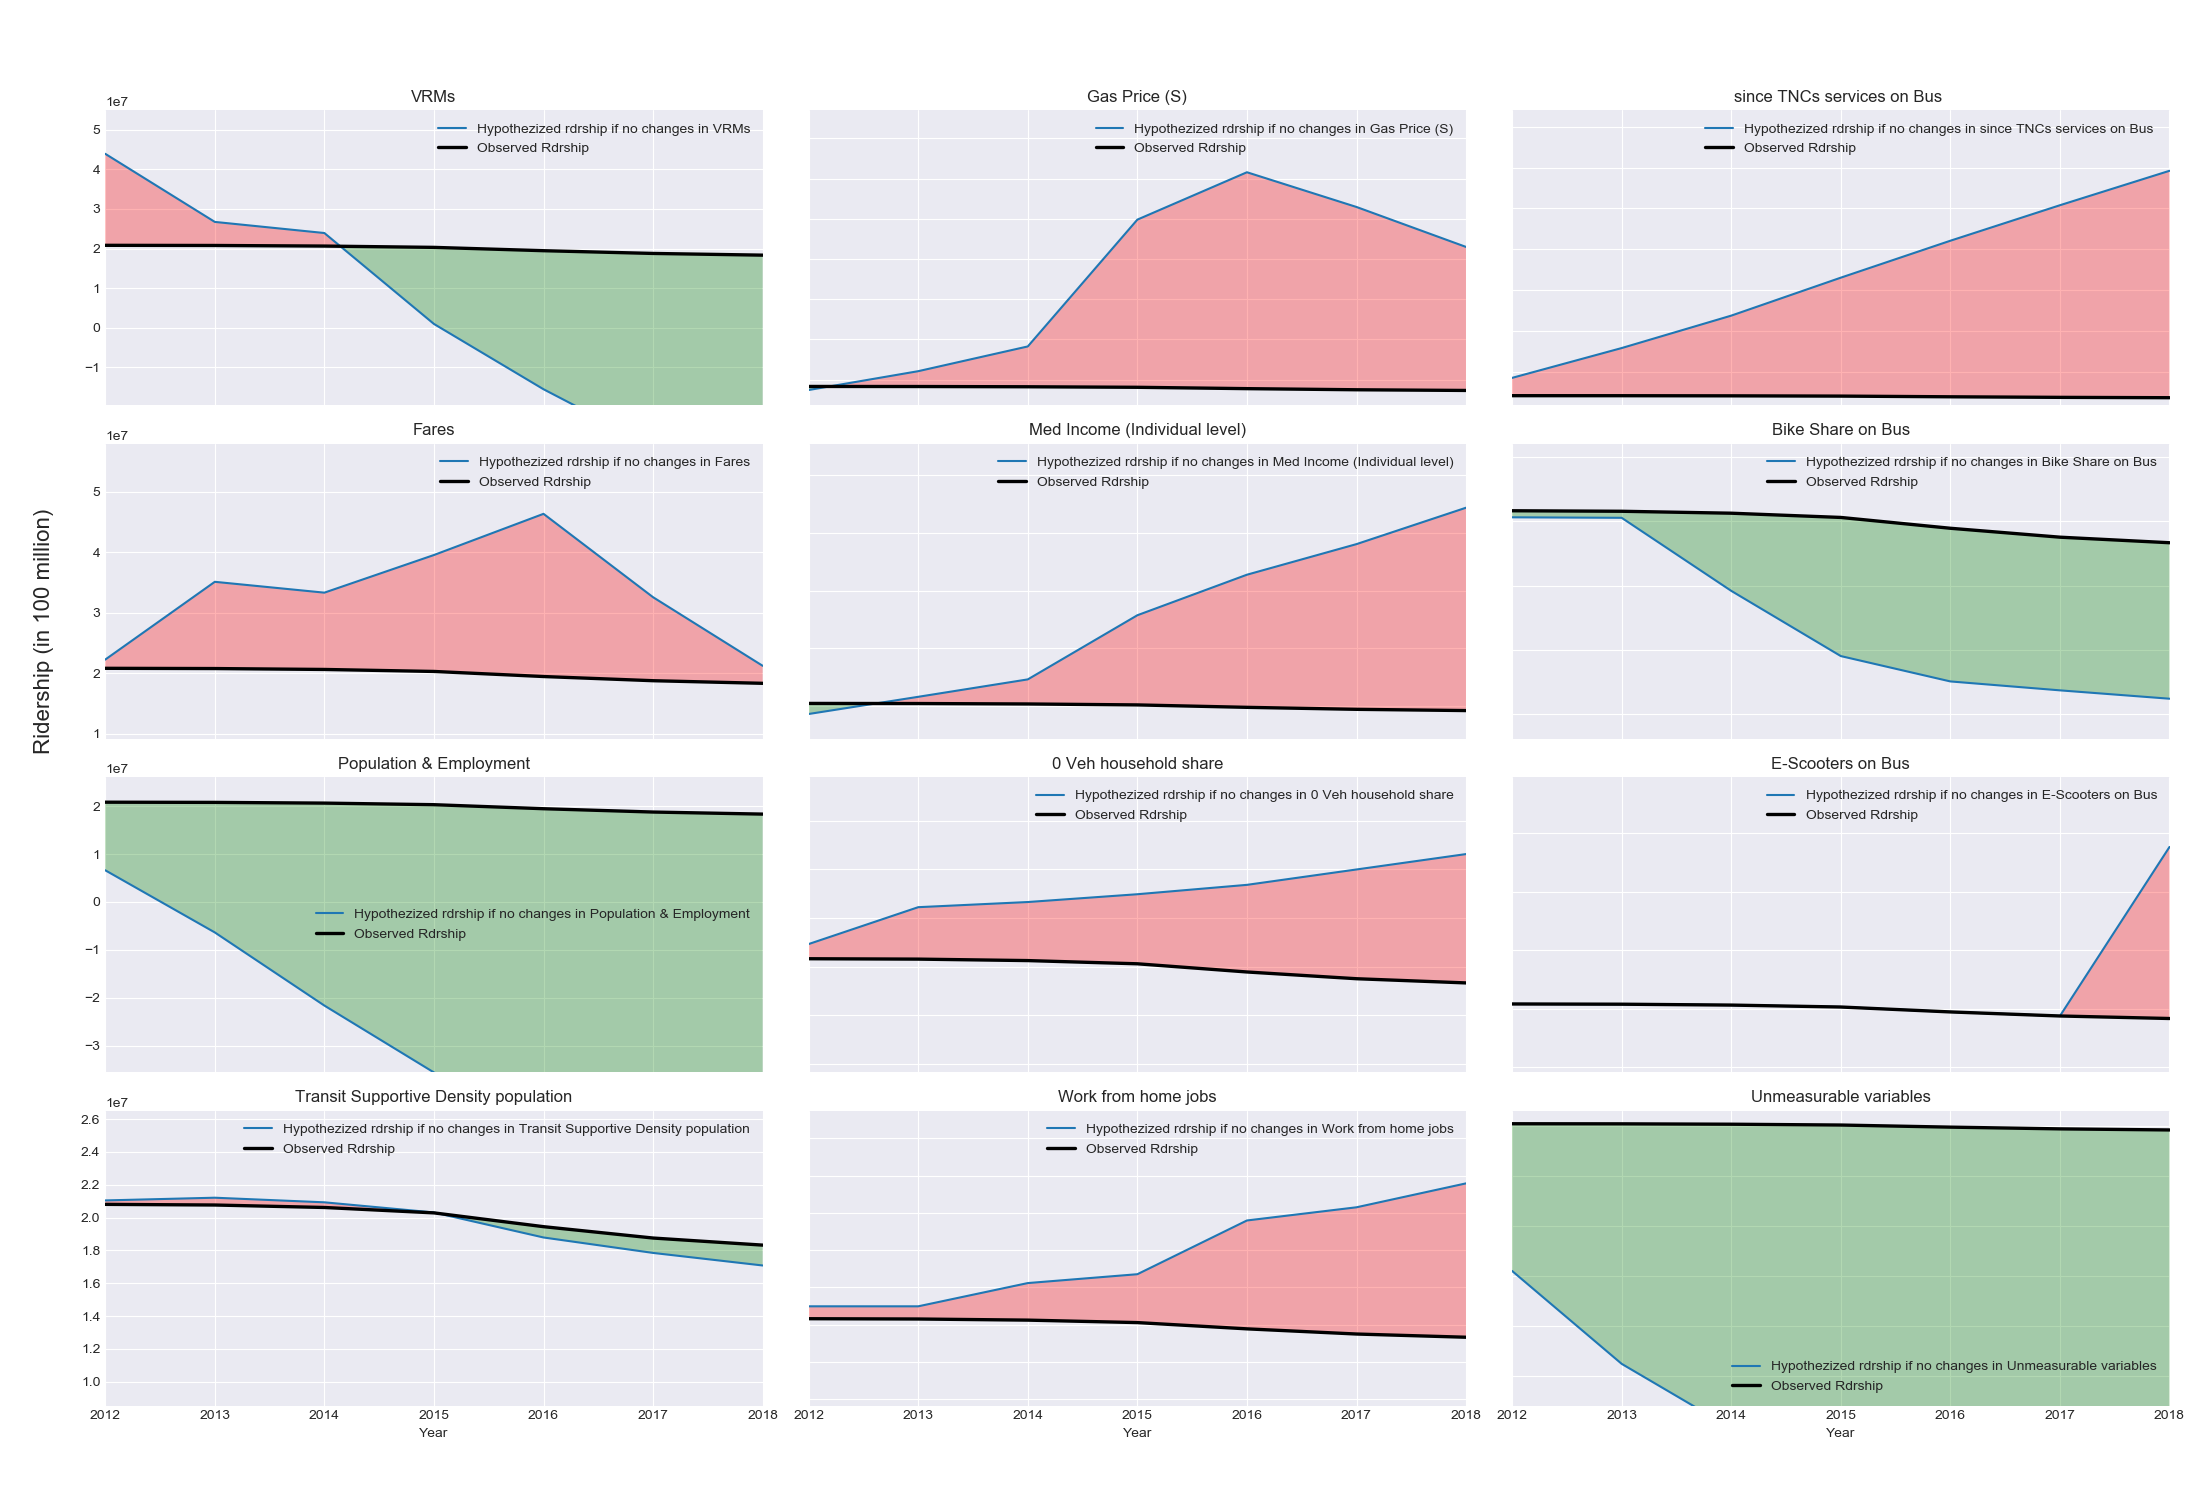
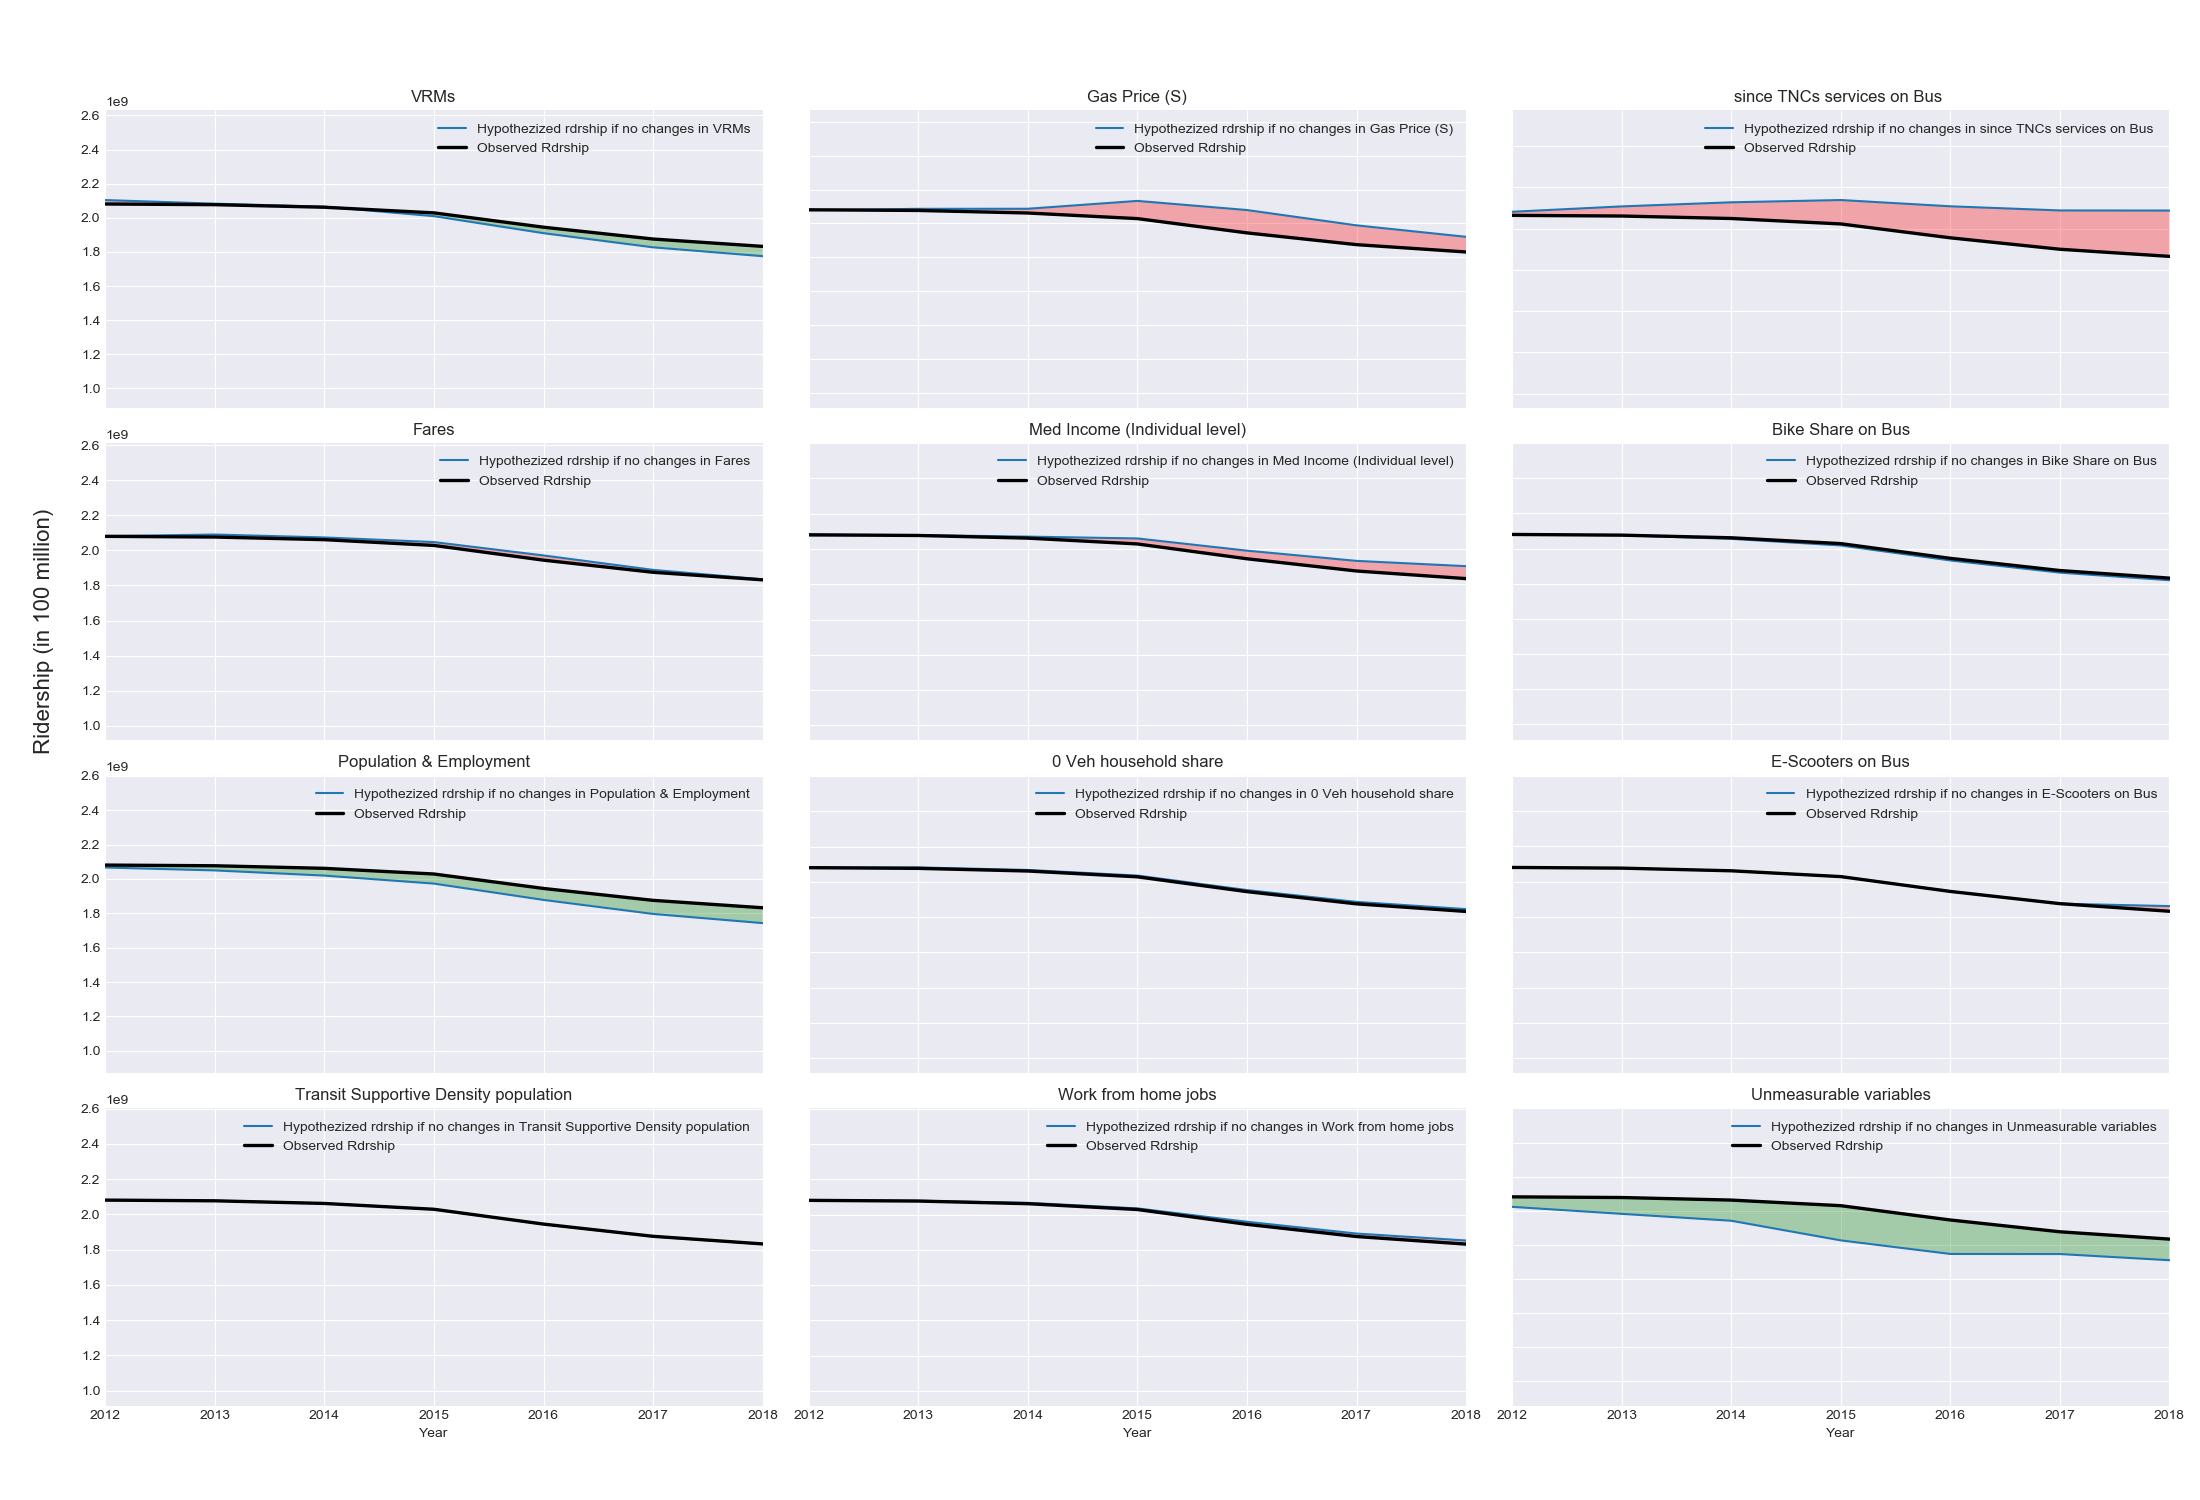
Est 6 graphs are rectified
Previously the Est6 - graphs for b2002 and b2012 were behaving wacky. I have now rectified the graph scale.
Please note the Y-axis is now Ridership (100 million).

diff --git a/Factors and Ridership Data/code/Script_Est6.py b/Factors and Ridership Data/code/Script_Est6.py
@@ -288,7 +288,7 @@ def create_upt_fac_total_apta4_cluster_b2002(_filename, _clustervalue, _startyea
     for col in col_name:
         df[col] = np.where(df[col] == '-', 0, df[col])
         try:
-            df[col] = df[col] / 100
+            df[col] = df[col]
         except ValueError:
             pass
 
@@ -334,7 +334,7 @@ def create_upt_fac_total_apta4_b2012(_filename, _clustervalue, _startyear, _endy
     # print("set directory at get_cluster_file ", current_dir)
     df = pd.read_csv(_filename)
     try:
-        df['UPT_ADJ'] = df['UPT_ADJ'] / 100
+        df['UPT_ADJ'] = df['UPT_ADJ']
     except ValueError:
         pass
 
@@ -648,60 +648,65 @@ def get_cluster_chart(_df, _filename, _chart_name, _clusterfile):
                 mode_name = "RAIL"
             # get number of sub-plots defined - 4*2 means 4 rows having 2 graphs (each sized 18x9) in each row = 8 graphs
             df_fltr_mode = df_fltr_mod[df_fltr_mod.Mode == mode]
-            row=0
-            col=0
+            row = 0
+            col = 0
 
             # Year vs VRM_ADJ_log_FAC --> Graph (0,0)
-            df_fltr_mode.groupby('Mode').plot(x='Year', y='VRM_ADJ_log_FAC', label=str(mode), ax=ax[row][col], legend=True)
+            df_fltr_mode.groupby('Mode').plot(x='Year', y='VRM_ADJ_log_FAC', label=str(mode_name), ax=ax[row][col],
+                                              legend=True)
             ax[row][col].set(xlabel="Years", ylabel='VRMs')
             ax[row][col].legend(loc='best')
-            row+=1
+            row += 1
 
             # Year vs FARE_per_UPT_2018_log_FAC --> Graph (1,0)
-            df_fltr_mode.groupby('Mode').plot(x='Year', y='FARE_per_UPT_2018_log_FAC', label=str(mode), ax=ax[row][col], legend=True)
+            df_fltr_mode.groupby('Mode').plot(x='Year', y='FARE_per_UPT_2018_log_FAC', label=str(mode_name),
+                                              ax=ax[row][col], legend=True)
             ax[row][col].set(xlabel="Years", ylabel='Fares')
             ax[row][col].legend(loc='best')
             row += 1
 
             # Year vs POP_EMP_log_FAC --> Graph (2,0)
-            df_fltr_mode.groupby('Mode').plot(x='Year', y='POP_EMP_log_FAC', label=str(mode), ax=ax[row][col],
+            df_fltr_mode.groupby('Mode').plot(x='Year', y='POP_EMP_log_FAC', label=str(mode_name), ax=ax[row][col],
                                               legend=True)
             ax[row][col].set(xlabel="Years", ylabel='Population and employment')
             ax[row][col].legend(loc='best')
             row += 1
 
             # Year vs Tot_NonUSA_POP_pct_FAC --> Graph (3,0)
-            df_fltr_mode.groupby('Mode').plot(x='Year', y='Tot_NonUSA_POP_pct_FAC', label=str(mode), ax=ax[row][col],
+            df_fltr_mode.groupby('Mode').plot(x='Year', y='Tot_NonUSA_POP_pct_FAC', label=str(mode_name),
+                                              ax=ax[row][col],
                                               legend=True)
             ax[row][col].set(xlabel="Years", ylabel='TSD population')
             ax[row][col].legend(loc='best')
-            row =0
+            row = 0
 
-            col+=1
+            col += 1
 
             # Year vs GAS_PRICE_2018_log_FAC --> Graph (0,1)
-            df_fltr_mode.groupby('Mode').plot(x='Year', y='GAS_PRICE_2018_log_FAC', label=str(mode), ax=ax[row][col],
+            df_fltr_mode.groupby('Mode').plot(x='Year', y='GAS_PRICE_2018_log_FAC', label=str(mode_name),
+                                              ax=ax[row][col],
                                               legend=True)
             ax[row][col].set(xlabel="Years", ylabel='Gas price ($)')
             ax[row][col].legend(loc='best')
             row += 1
 
             # Year vs TOTAL_MED_INC_INDIV_2018_log_FAC --> Graph (1,1)
-            df_fltr_mode.groupby('Mode').plot(x='Year', y='TOTAL_MED_INC_INDIV_2018_log_FAC', label=str(mode), ax=ax[row][col],
+            df_fltr_mode.groupby('Mode').plot(x='Year', y='TOTAL_MED_INC_INDIV_2018_log_FAC', label=str(mode_name),
+                                              ax=ax[row][col],
                                               legend=True)
             ax[row][col].set(xlabel="Years", ylabel='Median Income (individual)')
             ax[row][col].legend(loc='best')
             row += 1
 
             # Year vs PCT_HH_NO_VEH_FAC --> Graph (2,1)
-            df_fltr_mode.groupby('Mode').plot(x='Year', y='PCT_HH_NO_VEH_FAC', label=str(mode), ax=ax[row][col],
+            df_fltr_mode.groupby('Mode').plot(x='Year', y='PCT_HH_NO_VEH_FAC', label=str(mode_name), ax=ax[row][col],
                                               legend=True)
             ax[row][col].set(xlabel="Years", ylabel='0 Veh HH')
             ax[row][col].legend(loc='best')
             row += 1
 
             # Year vs JTW_HOME_PCT_FAC --> Graph (3,1)
-            df_fltr_mode.groupby('Mode').plot(x='Year', y='JTW_HOME_PCT_FAC', label=str(mode), ax=ax[row][col],
+            df_fltr_mode.groupby('Mode').plot(x='Year', y='JTW_HOME_PCT_FAC', label=str(mode_name), ax=ax[row][col],
                                               legend=True)
             ax[row][col].set(xlabel="Years", ylabel='work from home population')
             ax[row][col].legend(loc='best')
@@ -710,25 +715,25 @@ def get_cluster_chart(_df, _filename, _chart_name, _clusterfile):
             col += 1
 
             # Year vs YEARS_SINCE_TNC --> Graph (0,2)
-            if (mode=="BUS"):
+            if (mode == "BUS"):
                 ylabel = 'YEARS_SINCE_TNC_BUS_FAC'
             else:
                 ylabel = "YEARS_SINCE_TNC_RAIL_FAC"
-            df_fltr_mode.groupby('Mode').plot(x='Year', y=ylabel, label=str(mode), ax=ax[row][col],
+            df_fltr_mode.groupby('Mode').plot(x='Year', y=ylabel, label=str(mode_name), ax=ax[row][col],
                                               legend=True)
-            ax[row][col].set(xlabel="Years", ylabel=('TNCs presence on ' + str(mode)))
+            ax[row][col].set(xlabel="Years", ylabel=('TNCs presence on ' + str(mode_name)))
             ax[row][col].legend(loc='best')
             row += 1
 
             # Year vs TOTAL_MED_INC_INDIV_2018_log_FAC --> Graph (1,2)
-            if (mode=="BUS"):
+            if (mode == "BUS"):
                 ylabel = 'BIKE_SHARE_BUS_FAC'
             else:
                 ylabel = "BIKE_SHARE_RAIL_FAC"
-            df_fltr_mode.groupby('Mode').plot(x='Year', y=ylabel, label=str(mode),
+            df_fltr_mode.groupby('Mode').plot(x='Year', y=ylabel, label=str(mode_name),
                                               ax=ax[row][col],
                                               legend=True)
-            ax[row][col].set(xlabel="Years", ylabel=('PBS presence on ' + str(mode)))
+            ax[row][col].set(xlabel="Years", ylabel=('PBS presence on ' + str(mode_name)))
             ax[row][col].legend(loc='best')
             row += 1
 
@@ -737,21 +742,21 @@ def get_cluster_chart(_df, _filename, _chart_name, _clusterfile):
                 ylabel = 'scooter_flag_BUS_FAC'
             else:
                 ylabel = "scooter_flag_RAIL_FAC"
-            df_fltr_mode.groupby('Mode').plot(x='Year', y=ylabel, label=str(mode),
+            df_fltr_mode.groupby('Mode').plot(x='Year', y=ylabel, label=str(mode_name),
                                               ax=ax[row][col],
                                               legend=True)
-            ax[row][col].set(xlabel="Years", ylabel=('E-scooter presence on ' + str(mode)))
+            ax[row][col].set(xlabel="Years", ylabel=('E-scooter presence on ' + str(mode_name)))
             ax[row][col].legend(loc='best')
             row += 1
 
             # Year vs JTW_HOME_PCT_FAC --> Graph (3,2)
-            df_fltr_mode.groupby('Mode').plot(x='Year', y='JTW_HOME_PCT_FAC', label=str(mode), ax=ax[row][col],
+            df_fltr_mode.groupby('Mode').plot(x='Year', y='JTW_HOME_PCT_FAC', label=str(mode_name), ax=ax[row][col],
                                               legend=True)
             ax[row][col].set(xlabel="Years", ylabel='work from home population')
             ax[row][col].legend(loc='best')
             row = 0
 
-            col=0
+            col = 0
 
             fig.suptitle(('Cluster Code:' + str(clustercolumn) + "-" + str(mode_name)), fontsize=14)
             fig.tight_layout()
@@ -771,7 +776,7 @@ def get_cluster_chart(_df, _filename, _chart_name, _clusterfile):
             x += 1
 
 
-def get_cluster_file(_filename,_clusterfile):
+def get_cluster_file(_filename, _clusterfile):
     filename = _filename
     clusterfile = _clusterfile
     try:
@@ -785,7 +790,8 @@ def get_cluster_file(_filename,_clusterfile):
                 df = pd.read_csv(filename)
                 get_cluster_chart(df, filename, chart_name, clusterfile)
         except FileNotFoundError:
-            print("File could not be found. Please check the file is placed in the folder path - Factors and Ridership Data\Model Estimation\Est6")
+            print(
+                "File could not be found. Please check the file is placed in the folder path - Factors and Ridership Data\Model Estimation\Est6")
 
     except FileNotFoundError:
         print("System error, in cluster_level_chart_function")
@@ -793,15 +799,12 @@ def get_cluster_file(_filename,_clusterfile):
 
 def main():
     # create charts at cluster level
-    get_cluster_file("UPT_FAC_totals_APTA4_CLUSTERS_b2012_pivot.csv","CLUSTER_APTA4")
+    get_cluster_file("UPT_FAC_totals_APTA4_CLUSTERS_b2012_pivot.csv", "CLUSTER_APTA4")
     # Pass on the cluster_file and cluster_column
     # create_upt_fac_total_apta4_cluster("FAC_totals_APTA4_CLUSTERS.csv", "CLUSTER_APTA4")
-    # create_upt_fac_total_apta4_cluster_b2002("FAC_totals_APTA4_CLUSTERS.csv", "CLUSTER_APTA4", 2002, 2018)
-    # create_upt_fac_total_apta4_b2012("FAC_totals_APTA4_CLUSTERS.csv", "CLUSTER_APTA4", 2012, 2018)
-    # create_upt_fac_total_apta4_b2002_pivot("UPT_FAC_totals_APTA4_CLUSTERS_b2012_pivot.csv", "CLUSTER_APTA4", 2002, 2018)
-
-    # for 2002 - 2018
-    # for 2012 - 2018
+    create_upt_fac_total_apta4_cluster_b2002("FAC_totals_APTA4_CLUSTERS.csv", "CLUSTER_APTA4", 2002, 2018)
+    create_upt_fac_total_apta4_b2012("FAC_totals_APTA4_CLUSTERS.csv", "CLUSTER_APTA4", 2012, 2018)
+    create_upt_fac_total_apta4_b2002_pivot("UPT_FAC_totals_APTA4_CLUSTERS_b2012_pivot.csv", "CLUSTER_APTA4", 2002, 2018)
 
 
 if __name__ == "__main__":
